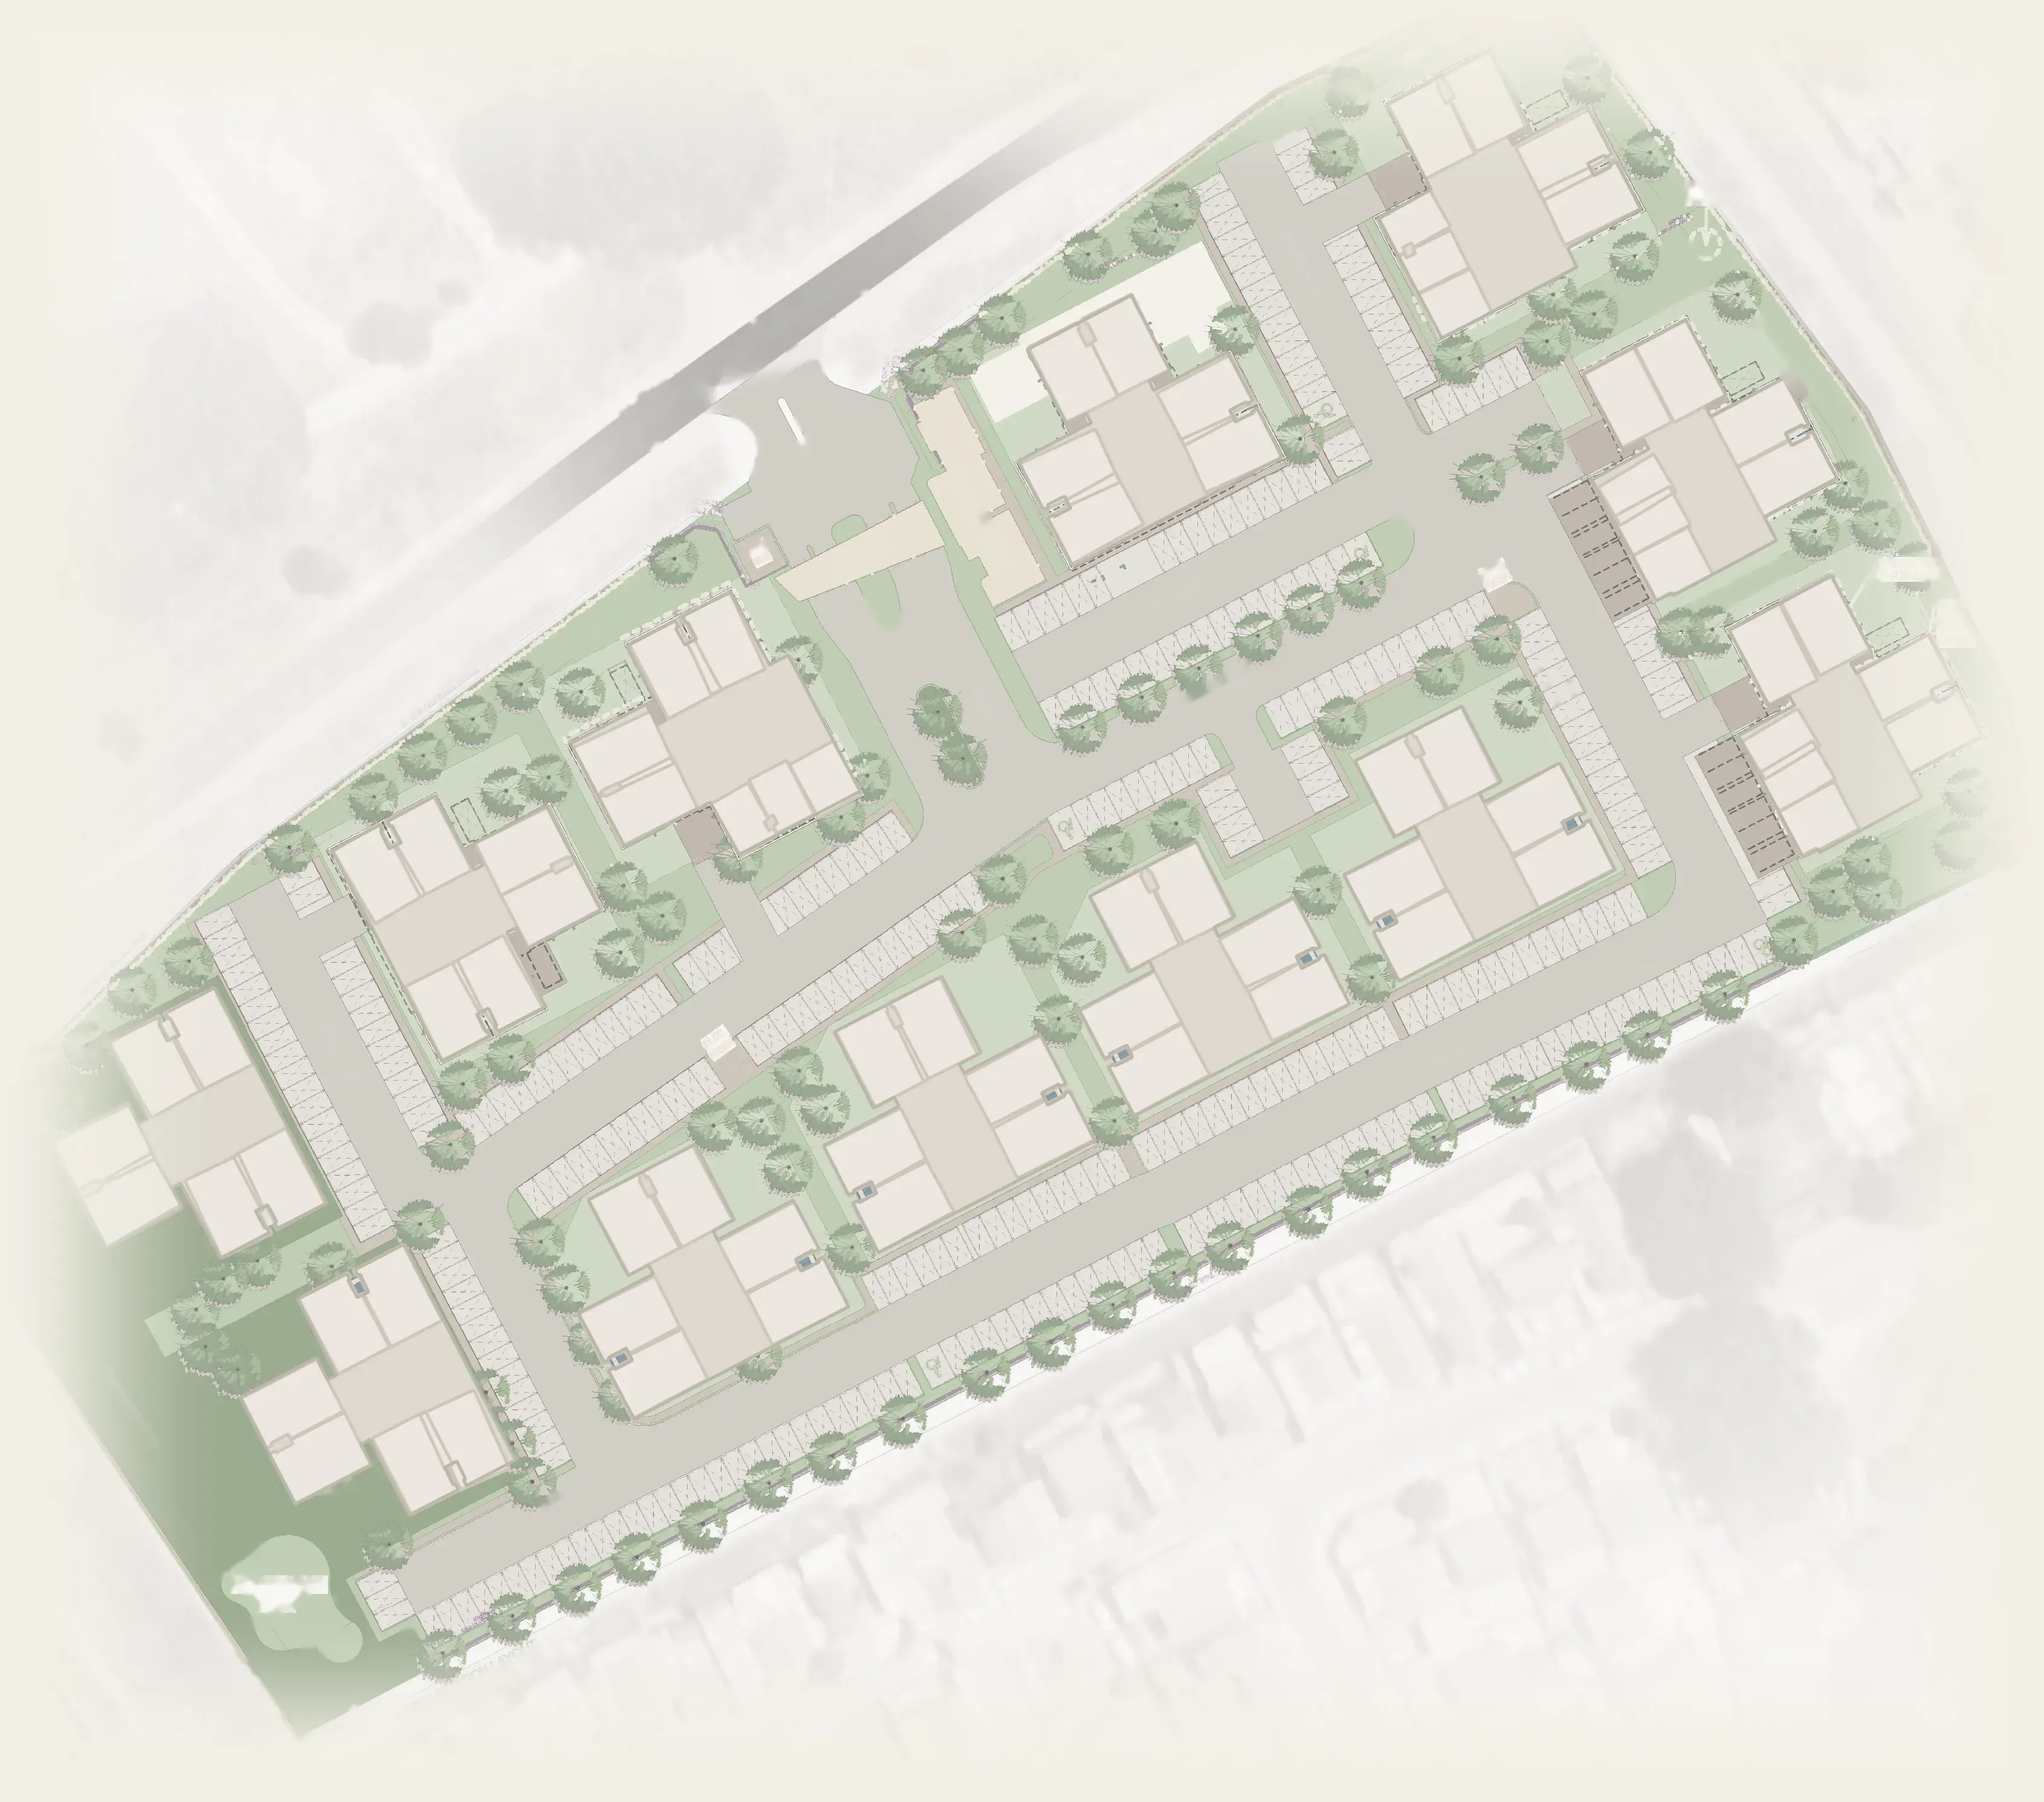
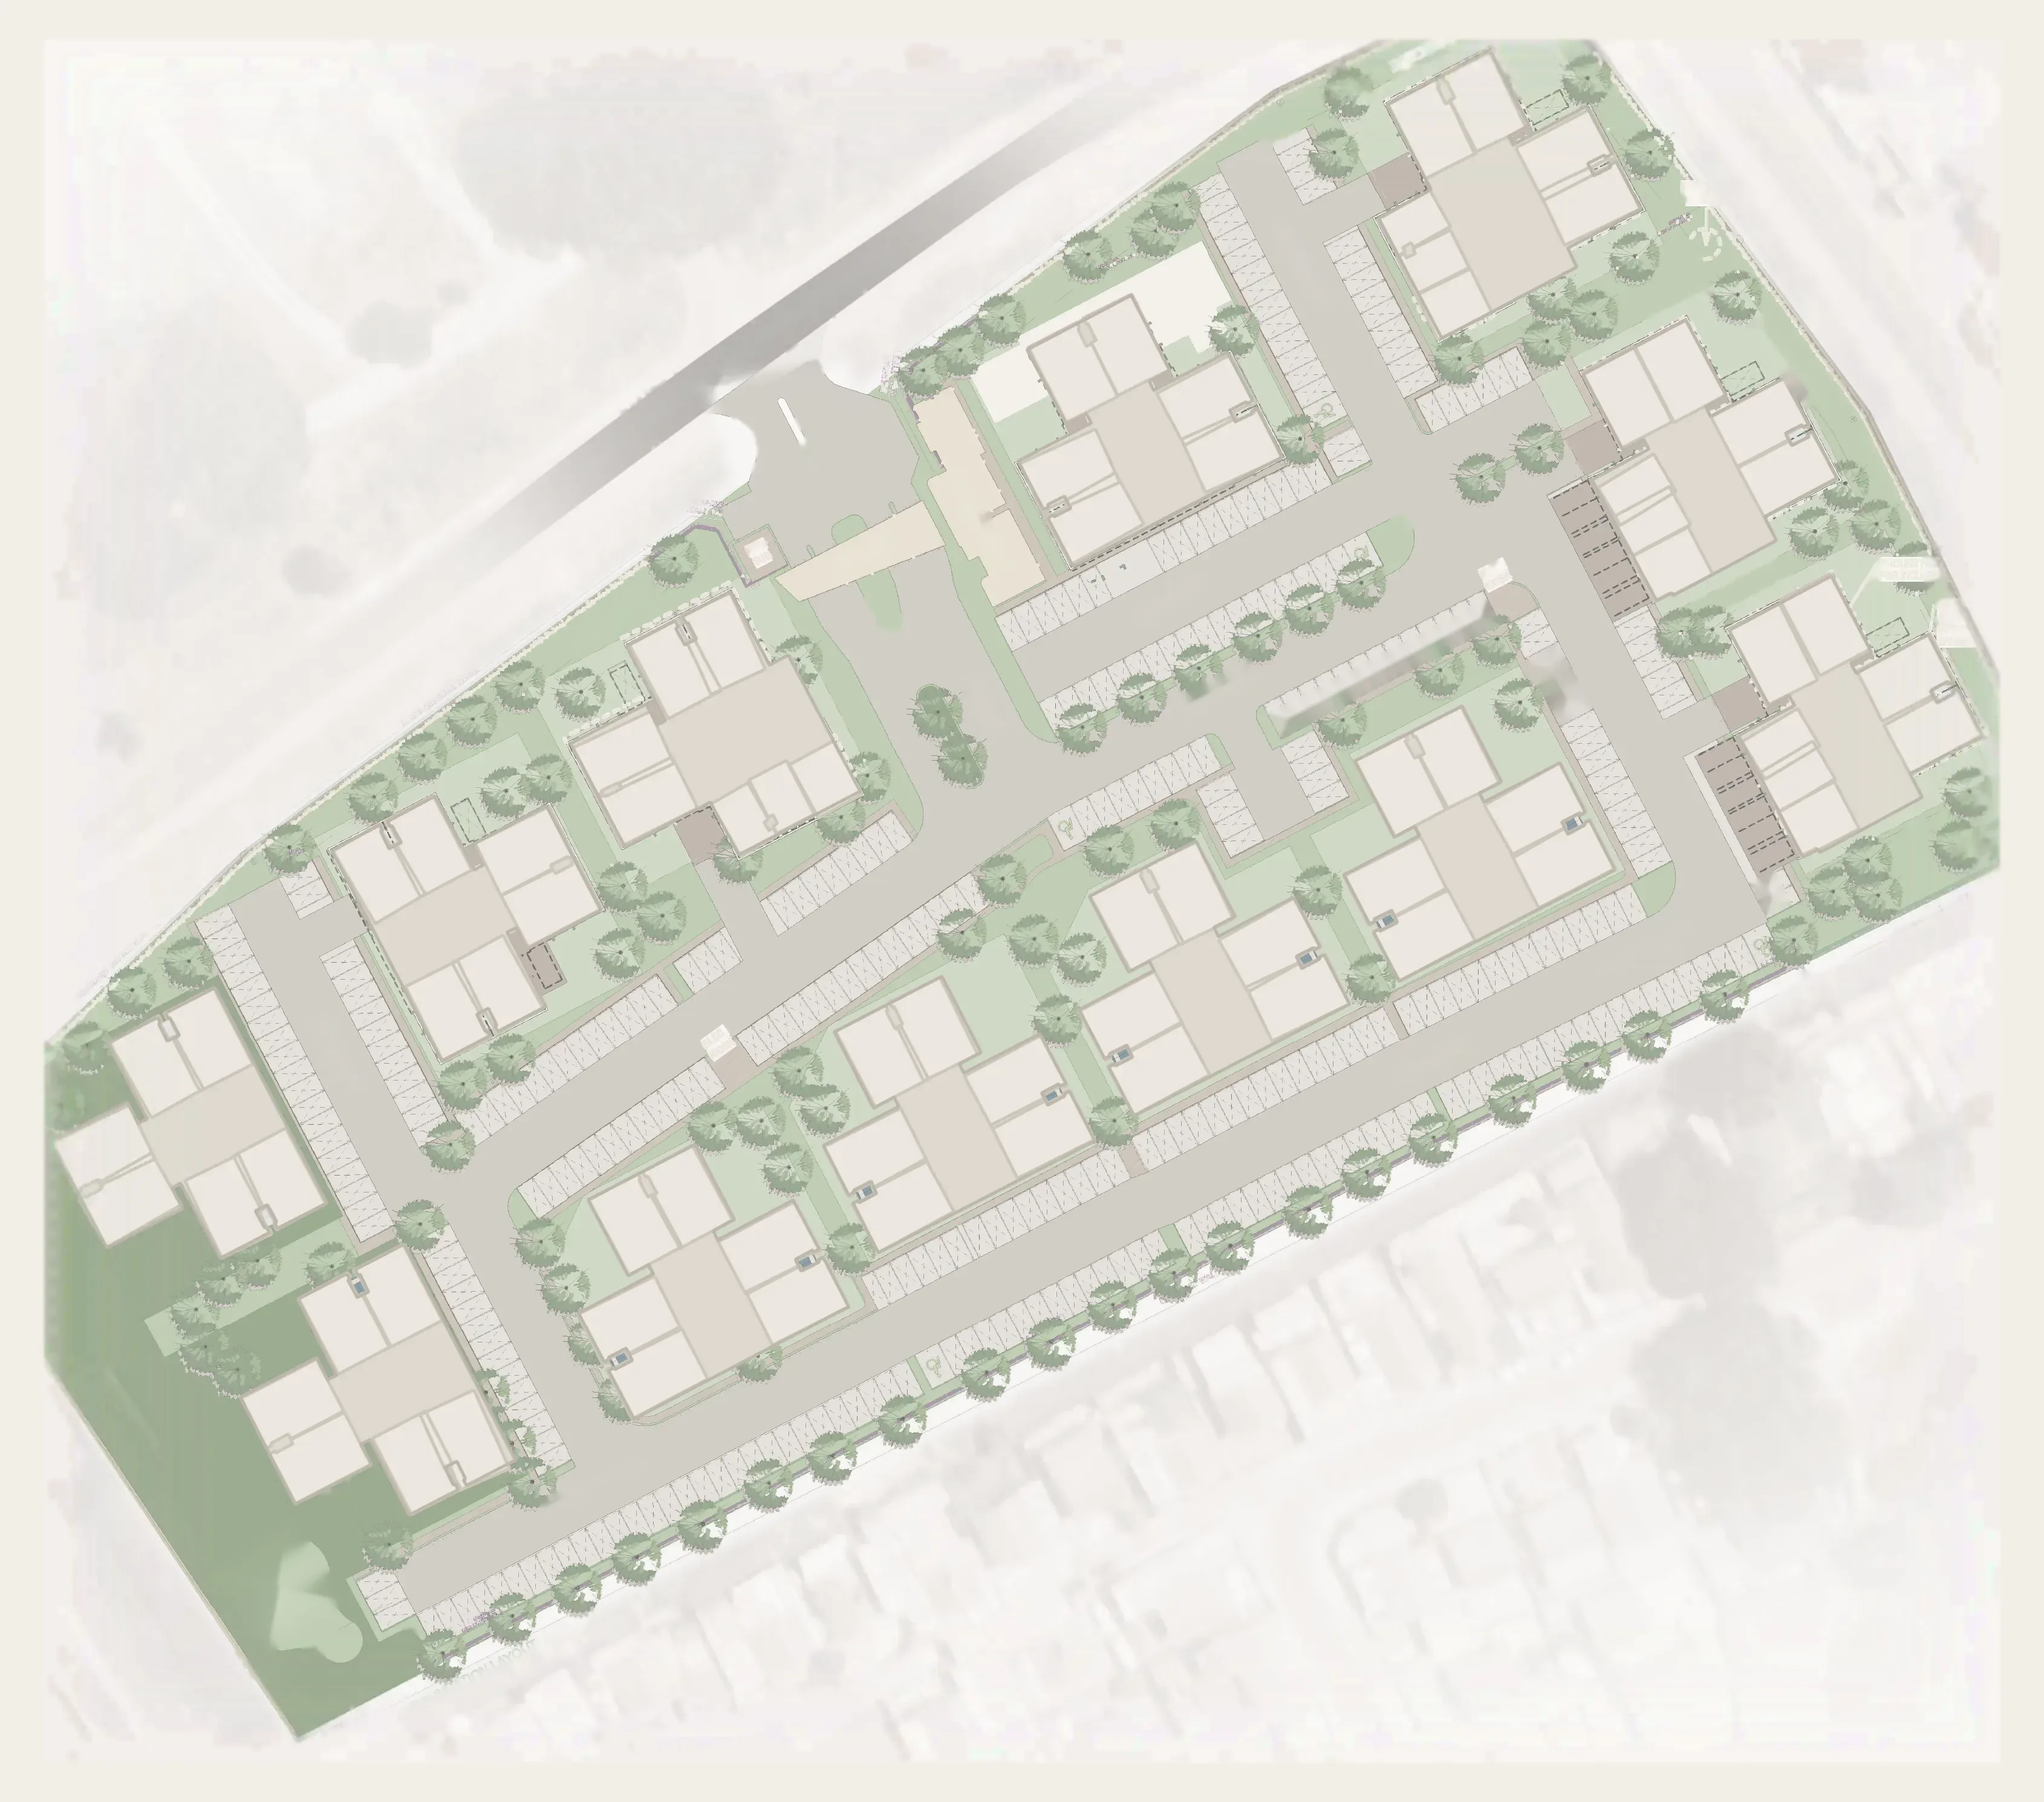
Oak Hills v2: background v7 (narrow edge fade, cleaner label fills), mobile portrait plan fills the map box
- refade.py: the v5 fade blended the outer 11% of each axis to sand-50 and was
  eating real detail in the corners (lawns, canopies, the buildings near the
  edge). The blend is invertible, so it recovers the unfaded raster and
  re-applies a 3.5% band; the outermost ~1% has no recoverable signal and stays
  sand, which is the map viewport colour anyway
- unlabel.py: a seeded cluster whose rect reads brighter than the ring around it
  is a label on a pale box (ATTENUATION POND, the plaques) and the whole box is
  filled - filling only the glyphs left the halo behind and the inpaint sampled
  it into a white smear; a cluster that reads darker is white-on-grey text
  (WELGEVONDEN BOULEVARD) and keeps the glyph-only treatment, or the rect eats
  the road band. v5 raster kept as oh-site-plan-bg-v5.webp so the chain reruns
- viewport: on mobile portrait (<992px and box taller than 1.15x its width) the
  plan fills the box instead of being contained in it, so the height freed by
  floating the controls is used; zoom 1 is still the default view, and rotation
  re-measures through the ResizeObserver

Claude-Session: https://claude.ai/code/session_0183cqn951di5B4HGs9VUW9x

diff --git a/heartland-oh.js b/heartland-oh.js
@@ -1058,12 +1058,21 @@ window.Wized.push((Wized) => {
     else { var svg = canvas.querySelector('svg'); var vb = svg && (svg.getAttribute('viewBox') || '').split(/[\s,]+/).map(Number); if (vb && vb[2]) aspect = vb[2] / vb[3]; }
     return aspect || 1690 / 1490;
   }
+  /* Mobile portrait: the box is much taller than the plan's aspect, so a
+     "contain" fit leaves a dead band above and below it. Fill the box instead
+     (the sides overflow and pan), which is what the freed-up height was for.
+     Zoom 1 is still "the default view", so the % readout and Reset are
+     unchanged, and a rotation re-measures through the ResizeObserver. */
+  function fillsBox() {
+    return window.matchMedia('(max-width: 991px)').matches && box.clientHeight > box.clientWidth * 1.15;
+  }
   /* width of the plan at zoom 1: fits the viewport with a little air */
   function measure() {
     var bw = box.clientWidth, bh = box.clientHeight;
     if (!bw || !bh) return;
     var r = ratio();
-    baseW = Math.round(Math.min(bw * FIT, bh * FIT * r));
+    baseW = fillsBox() ? Math.round(Math.max(bw, bh * r))
+                       : Math.round(Math.min(bw * FIT, bh * FIT * r));
     stage.style.padding = Math.round(bh * 0.5) + 'px ' + Math.round(bw * 0.5) + 'px';
     setWidth();
   }

diff --git a/assets/oh/tools/unlabel.py b/assets/oh/tools/unlabel.py
@@ -1,4 +1,5 @@
-# unlabel.py - strip the baked-in labels from the site-plan background.
+# unlabel.py - strip the baked-in labels from the site-plan background, then
+# relax the edge fade (refade section at the bottom).
 #
 # The background raster carries the SDP's own text (street names, Gatehouse,
 # Utilities & Refuse, BUILDING LINE annotations, the utility plaques) and the
@@ -10,11 +11,15 @@
 # Two detectors, both conservative:
 #   A  a dark label on a near-white halo box -> fill its min-area rect
 #   B  thin-stroke glyph clusters within 230px of a curated seed (the labels
-#      with no halo box: white-on-grey brochure text, the faded notes)
+#      with no halo box). A cluster whose rect reads BRIGHTER than the ring
+#      around it is a label on a pale box (the pond, the plaques) and the whole
+#      rect is filled; one that reads darker is white-on-grey text
+#      (WELGEVONDEN BOULEVARD) and only the glyphs go, or the fill eats the
+#      road band the text sits on.
 # Block footprints from the plan SVG are excluded: the only things that look
 # like glyphs inside them are the courtyard slivers between unit polygons.
 #
-#   python3 unlabel.py            # oh-site-plan-bg.webp (v5) -> bg6.png + webp
+#   python3 unlabel.py            # ../oh-site-plan-bg-v5.webp -> bg6.png
 import cv2, numpy as np, re
 from PIL import Image
 
@@ -62,6 +67,10 @@ for i in range(1, n):
     nA += 1
 print('A labels', nA)
 
+def gpx8_pad(gpx, x, y, H, W):
+    m = np.zeros((H, W), np.uint8); m[y:y+gpx.shape[0], x:x+gpx.shape[1]] = gpx
+    return m
+
 # ---- glyph mask (thin dark or thin bright strokes) ----
 bh = cv2.morphologyEx(gray, cv2.MORPH_BLACKHAT, K(41))
 th = cv2.morphologyEx(gray, cv2.MORPH_TOPHAT, K(41))
@@ -102,10 +111,30 @@ for i in range(1, n):
     gpx = glyph[y:y+h, x:x+w] & sub.astype(np.uint8)
     if int(gpx.sum()) < 120: continue
     if not (seedmap[y:y+h, x:x+w][sub] > 0).any(): continue
+    # the label's own white halo box has to go too, or the fill samples it and
+    # leaves a bright smear (the attenuation pond): take the cluster's min-area
+    # rect, as pass A does, not just the glyph strokes
+    cnts = cv2.findContours(gpx, cv2.RETR_EXTERNAL, cv2.CHAIN_APPROX_SIMPLE)[0]
+    if len(cnts):
+        pts = np.concatenate(cnts) + np.array([[[x, y]]])
+        (rc, rs, ra) = cv2.minAreaRect(pts)
+        rect = np.int32(cv2.boxPoints((rc, (rs[0] + 18, rs[1] + 18), ra)))
+        inner = np.zeros((H, W), np.uint8); cv2.fillPoly(inner, [rect], 1)
+        ring = cv2.dilate(inner, K(61)) & (1 - inner)
+        ink = cv2.dilate(gpx8_pad(gpx, x, y, H, W), K(7))
+        inner[ink > 0] = 0; ring[ink > 0] = 0
+        # A label printed on its own pale box (the pond, the plaques) reads
+        # brighter inside the rect than just outside it: fill the whole box, or
+        # the fill samples the halo and leaves a bright smear. White-on-grey
+        # text (WELGEVONDEN BOULEVARD) reads darker inside - glyphs only there,
+        # or the rect eats the road band the text sits on.
+        if inner.sum() > 200 and ring.sum() > 200:
+            if np.median(gray[inner > 0]) > np.median(gray[ring > 0]) + 5:
+                cv2.fillPoly(maskB, [rect], 1)
     maskB[y:y+h, x:x+w] |= gpx
     nB += 1
 print('B clusters', nB)
-maskB = cv2.dilate(maskB, K(11))
+maskB = cv2.dilate(maskB, K(5))
 
 # the boulevard band text also gets an explicit rotated strip (white on grey)
 band = np.zeros((H, W), np.uint8)

diff --git a/assets/oh/tools/refade.py b/assets/oh/tools/refade.py
@@ -1,0 +1,49 @@
+# refade.py - relax the edge fade on the site-plan background.
+#
+# bg4.py (v5) faded the outer 11% of each axis to sand-50 with a smoothstep,
+# which eats real detail in the corners (lawns, tree canopies, the buildings
+# that sit close to the edge). The fade is a known, invertible blend, so this
+# recovers the unfaded raster and re-applies a narrow one.
+#
+#   v5/v6:  out = im*a + sand*(1-a),  a = smoothstep(min(dx,dy)), band 11%
+#   here:   im  = (out - sand*(1-a)) / a   for a > A_MIN, then a 3.5% band
+#
+# The very outer ~1% carries no recoverable signal (a -> 0); it stays sand,
+# which is what the map viewport is anyway, so the plan still has no border.
+import numpy as np
+from PIL import Image
+
+SRC, DST = 'bg6.png', 'bg7.png'   # bg6.png = unlabel.py's output (v5 with the baked labels removed)
+OLD_BAND, NEW_BAND = 0.11, 0.035
+A_MIN = 0.10
+
+im = np.asarray(Image.open(SRC).convert('RGB')).astype(np.float64)
+h, w = im.shape[:2]
+sand = np.array([242, 239, 230], np.float64)
+
+def alpha(band):
+    y = np.arange(h)[:, None]; x = np.arange(w)[None, :]
+    dx = np.minimum(x, w - 1 - x) / (band * w)
+    dy = np.minimum(y, h - 1 - y) / (band * h)
+    d = np.minimum(np.minimum(dx, dy), 1.0)
+    return (d * d * (3 - 2 * d))[..., None]
+
+a_old = alpha(OLD_BAND)
+safe = np.maximum(a_old, A_MIN)
+un = (im - sand * (1 - a_old)) / safe          # recovered raster
+un = np.where(a_old >= A_MIN, un, sand)         # outermost sliver: no signal
+un = np.clip(un, 0, 255)
+# dividing by a small alpha amplifies the webp noise; that zone is flat paper,
+# so smooth it in proportion to how much it was amplified
+import cv2
+blur = cv2.GaussianBlur(un, (0, 0), 2.2)
+k = np.clip((0.40 - a_old) / 0.30, 0, 1)
+un = un * (1 - k) + blur * k
+
+a_new = alpha(NEW_BAND)
+out = un * a_new + sand * (1 - a_new)
+u8 = np.clip(out + 0.5, 0, 255).astype(np.uint8)
+Image.fromarray(u8).save(DST)
+Image.fromarray(u8).save('oh-site-plan-bg-v7.webp', quality=82, method=6)
+Image.fromarray(u8).resize((1014, 894), Image.LANCZOS).save('bg7_preview.png')
+print(u8.shape, 'a_old min/max', round(float(a_old.min()),3), round(float(a_old.max()),3))
